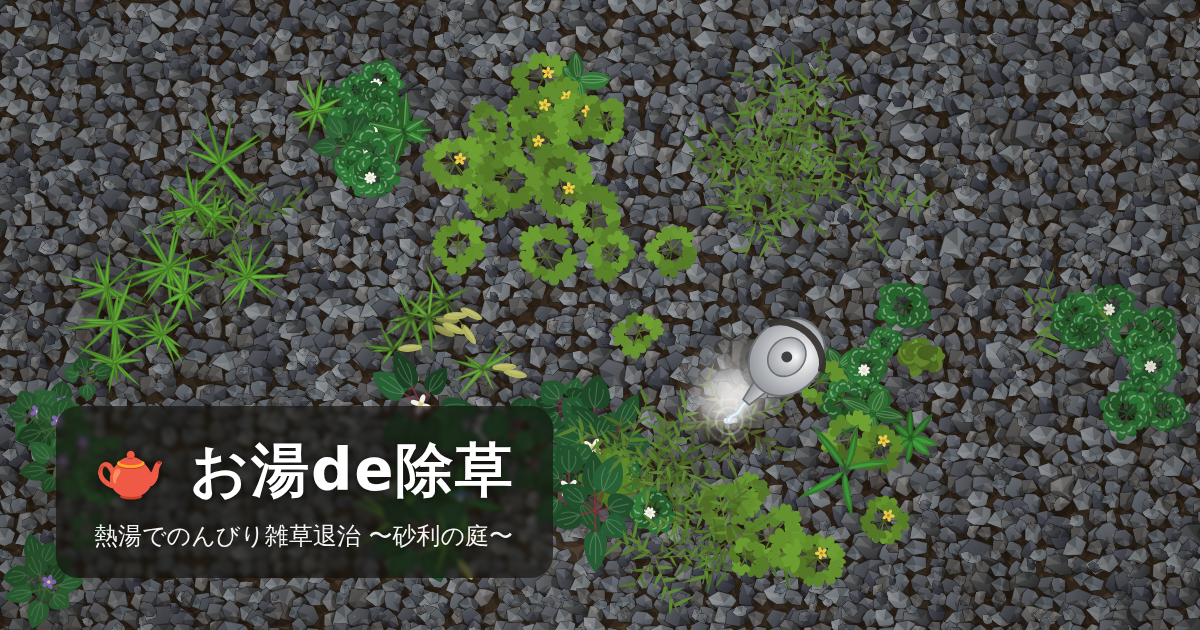
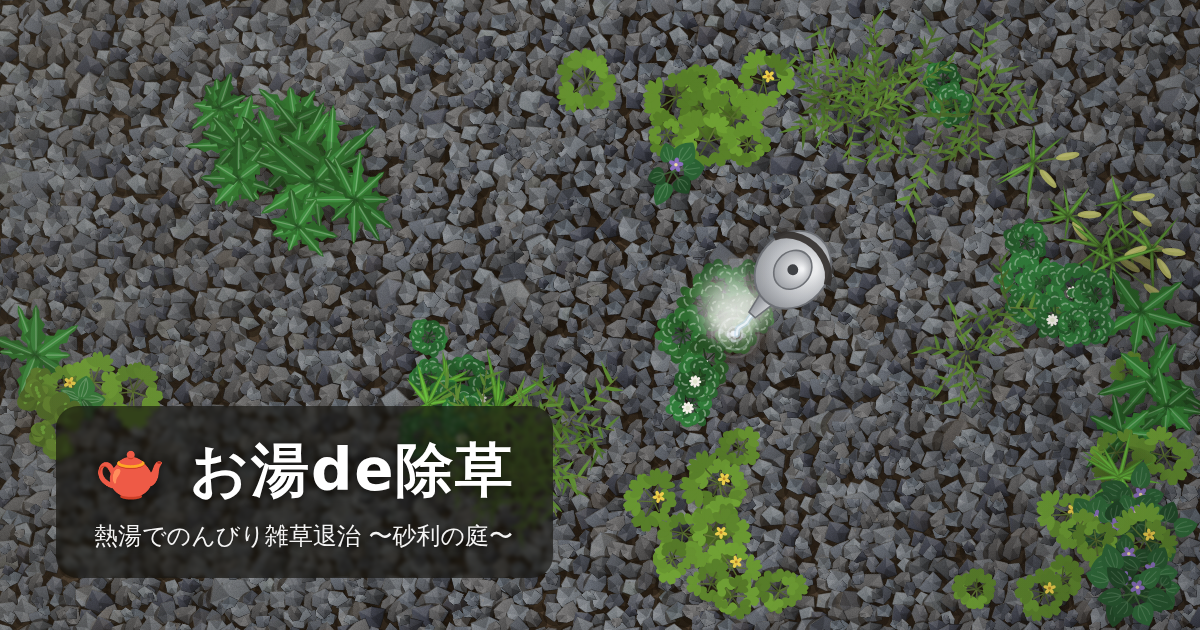
グラフィックをよりリアルに(光源統一・質感・ソフトシャドウ)
- 石スプライト: 粒子を細かく密に(石英の明るい粒も混在)、
  微細なヒビ、左上の辺だけのリムライトで光の向きを統一
- 砂利: 石の落ち影を深めに、土汚れ・うっすらコケの色むらを
  ランダムに追加、全面に粒状ノイズを焼き込み
- 草: 接地影をベタ塗り楕円から中心が濃いソフトシャドウに
  変更し、生え際・崩れ際のフェードにも追従
- 全体: 左上から差す斜めの日ざし(暖色→寒色)を追加
すべて事前レンダリングか既存描画の置き換えで、注ぎ中も
60fpsを維持。OGP画像も新グラフィックで再生成。

Claude-Session: https://claude.ai/code/session_01NT32zEiK4B6ou4LjRNvqhH

diff --git a/index.html b/index.html
@@ -648,11 +648,29 @@ function buildStoneSprites() {
       g.fillStyle = col;
       g.fill();
     }
-    // 岩肌の粒
-    for (let i = 0; i < 60; i++) {
-      const dl = rnd(-13, 13);
-      g.fillStyle = `hsla(${h},${sa}%,${clamp(l + dl, 4, 90)}%,${rnd(0.12, 0.28).toFixed(2)})`;
-      g.fillRect(cx + rnd(-r, r) * ex, cy + rnd(-r, r), rnd(0.7, 1.6), rnd(0.7, 1.6));
+    // 岩肌の粒(細かい粒を密に。石英っぽい明るい粒も少し混ぜる)
+    for (let i = 0; i < 110; i++) {
+      const dl = rnd(-14, 14);
+      g.fillStyle = i % 9 === 0
+        ? `hsla(${h},${Math.min(20, sa + 8)}%,${clamp(l + 26, 30, 92)}%,${rnd(0.18, 0.3).toFixed(2)})`
+        : `hsla(${h},${sa}%,${clamp(l + dl, 4, 90)}%,${rnd(0.1, 0.24).toFixed(2)})`;
+      g.fillRect(cx + rnd(-r, r) * ex, cy + rnd(-r, r), rnd(0.5, 1.2), rnd(0.5, 1.2));
+    }
+    // 微細なヒビ(短い折れ線を数本)
+    for (let i = 0; i < irnd(1, 3); i++) {
+      let px2 = cx + rnd(-r * 0.6, r * 0.6), py2 = cy + rnd(-r * 0.6, r * 0.6);
+      let ca = rnd(TAU);
+      g.strokeStyle = `rgba(10,10,14,${rnd(0.14, 0.26).toFixed(2)})`;
+      g.lineWidth = rnd(0.5, 0.8);
+      g.beginPath();
+      g.moveTo(px2, py2);
+      for (let s2 = 0; s2 < irnd(2, 4); s2++) {
+        ca += rnd(-0.9, 0.9);
+        px2 += Math.cos(ca) * rnd(3, 7);
+        py2 += Math.sin(ca) * rnd(3, 7);
+        g.lineTo(px2, py2);
+      }
+      g.stroke();
     }
     g.restore();
     // 縁を締める
@@ -660,6 +678,19 @@ function buildStoneSprites() {
     g.strokeStyle = 'rgba(8,10,12,0.5)';
     g.lineWidth = 1.3;
     g.stroke();
+    // 左上を向く辺にだけ細いリムライト(光の向きをそろえる)
+    g.lineWidth = 1;
+    g.strokeStyle = 'rgba(255,252,240,0.28)';
+    for (let i = 0; i < n; i++) {
+      const p1 = pts[i], p2 = pts[(i + 1) % n];
+      const mx = (p1[0] + p2[0]) / 2 - cx, my = (p1[1] + p2[1]) / 2 - cy;
+      if (mx + my < -r * 0.35) {   // 辺の中点が左上側
+        g.beginPath();
+        g.moveTo(p1[0], p1[1]);
+        g.lineTo(p2[0], p2[1]);
+        g.stroke();
+      }
+    }
     stoneSprites.push(c);
   }
 }
@@ -694,10 +725,10 @@ function buildGravel() {
       const spr = stoneSprites[irnd(0, stoneSprites.length - 1)];
       const big = Math.random() < 0.025;
       const sc = big ? rnd(0.45, 0.62) : rnd(0.28, 0.4);
-      // 影(土に落ちる影なので暖色寄り)
+      // 影(土に落ちる影なので暖色寄り。右下へ少し長めに=石どうしの隙間が深く見える)
       g.beginPath();
-      g.ellipse(x + 1.3, y + 1.8, STONE_R * sc * 1.1, STONE_R * sc * 0.95, 0, 0, TAU);
-      g.fillStyle = 'rgba(25,17,9,0.42)';
+      g.ellipse(x + 1.6, y + 2.2, STONE_R * sc * 1.15, STONE_R * sc * 1.0, 0, 0, TAU);
+      g.fillStyle = 'rgba(22,15,8,0.5)';
       g.fill();
       // 光の向きが揃うよう回転は控えめに、縦横比だけ揺らす
       g.save();
@@ -706,6 +737,19 @@ function buildGravel() {
       g.scale(sc * rnd(0.85, 1.2), sc);
       g.drawImage(spr, -32, -32);
       g.restore();
+      // たまに土汚れ・うっすらコケの色が付いた石を混ぜる(色の単調さを崩す)
+      const tint = Math.random();
+      if (tint < 0.14) {
+        g.fillStyle = `rgba(107,84,58,${rnd(0.08, 0.15).toFixed(2)})`;
+        g.beginPath();
+        g.ellipse(x + rnd(-2, 2), y + rnd(-2, 2), STONE_R * sc * 0.85, STONE_R * sc * 0.7, rnd(TAU), 0, TAU);
+        g.fill();
+      } else if (tint < 0.19) {
+        g.fillStyle = `rgba(96,112,64,${rnd(0.06, 0.11).toFixed(2)})`;
+        g.beginPath();
+        g.ellipse(x + rnd(-2, 2), y + rnd(-2, 2), STONE_R * sc * 0.7, STONE_R * sc * 0.55, rnd(TAU), 0, TAU);
+        g.fill();
+      }
     }
   }
   // すき間を小石で埋める(土はほんの少し覗く程度に)
@@ -739,6 +783,24 @@ function buildGravel() {
                   r < 0.7 ? 'rgba(190,160,120,.18)' : 'rgba(28,20,12,.28)';
     g.fillRect(rnd(gravelCssW), rnd(gravelCssH), rnd(1, 1.8), rnd(1, 1.8));
   }
+  // 全面に粒状ノイズを焼き込む(写真っぽいザラつき。デバイスピクセル単位)
+  const noise = document.createElement('canvas');
+  noise.width = noise.height = 128;
+  const nc = noise.getContext('2d');
+  const nd = nc.createImageData(128, 128);
+  for (let i = 0; i < nd.data.length; i += 4) {
+    const v = 128 + (Math.random() - 0.5) * 90;
+    nd.data[i] = nd.data[i + 1] = nd.data[i + 2] = v;
+    nd.data[i + 3] = 255;
+  }
+  nc.putImageData(nd, 0, 0);
+  g.save();
+  g.setTransform(1, 0, 0, 1, 0, 0);
+  g.globalCompositeOperation = 'overlay';
+  g.globalAlpha = 0.14;
+  g.fillStyle = g.createPattern(noise, 'repeat');
+  g.fillRect(0, 0, gravelCanvas.width, gravelCanvas.height);
+  g.restore();
 }
 
 function needGravelRebuild() {
@@ -765,6 +827,13 @@ function buildVignette() {
   grad.addColorStop(0, 'rgba(0,0,0,0)');
   grad.addColorStop(1, 'rgba(20,13,7,0.22)');
   v.fillStyle = grad;
+  v.fillRect(0, 0, W, H);
+  // 斜めの日ざし: 左上がほんのり暖かく、右下がわずかに翳る(光源の向きを統一)
+  const sun = v.createLinearGradient(0, 0, W, H);
+  sun.addColorStop(0, 'rgba(255,240,205,0.07)');
+  sun.addColorStop(0.5, 'rgba(255,240,205,0)');
+  sun.addColorStop(1, 'rgba(18,26,44,0.07)');
+  v.fillStyle = sun;
   v.fillRect(0, 0, W, H);
 }
 
@@ -1172,18 +1241,27 @@ function drawWeed(w, time) {
   const r = w.radius();
   if (r < 0.5) return;
 
-  // 影(這って広がる草は面が薄いので影も控えめに)
-  const isRunner = w.type === 'runner';
-  ctx.beginPath();
-  ctx.ellipse(w.x + 2, w.y + 2.5, r * (isRunner ? 0.5 : 0.75), r * (isRunner ? 0.36 : 0.55), 0, 0, TAU);
-  ctx.fillStyle = isRunner ? 'rgba(18,12,6,0.1)' : 'rgba(18,12,6,0.2)';
-  ctx.fill();
-
   // 新しく生えた草は透明から、ゆっくり立ち上がってふわっと現れる(成長はしない)
   const emerge = clamp(w.age / 2.8, 0, 1);
   const emergeEase = emerge * emerge * (3 - 2 * emerge);   // smoothstep
   const dyingAlpha = (w.crumbleTimer > 0 ? clamp(1 - w.crumbleTimer / CRUMBLE_FADE, 0, 1) : 1) *
                      emergeEase;
+
+  // 接地影: 中心が濃く縁でふわっと消えるソフトシャドウを右下に落とす
+  // (這って広がる草は面が薄いので影も控えめに)
+  const isRunner = w.type === 'runner';
+  const sr = r * (isRunner ? 0.62 : 0.95);
+  const sx2 = w.x + 2.2, sy2 = w.y + 3;
+  const sg = ctx.createRadialGradient(sx2, sy2, sr * 0.15, sx2, sy2, sr);
+  sg.addColorStop(0, isRunner ? 'rgba(14,10,5,0.17)' : 'rgba(14,10,5,0.3)');
+  sg.addColorStop(0.65, isRunner ? 'rgba(14,10,5,0.08)' : 'rgba(14,10,5,0.14)');
+  sg.addColorStop(1, 'rgba(14,10,5,0)');
+  ctx.globalAlpha = dyingAlpha;
+  ctx.beginPath();
+  ctx.ellipse(sx2, sy2, sr, sr * 0.74, 0, 0, TAU);
+  ctx.fillStyle = sg;
+  ctx.fill();
+  ctx.globalAlpha = 1;
   for (let i = 0; i < w.leaves.length; i++) {
     // 葉は1枚ずつ順番に、小さく生えてから育つ
     const lp = clamp(w.size * 1.4 * w.leaves.length - i, 0, 1);